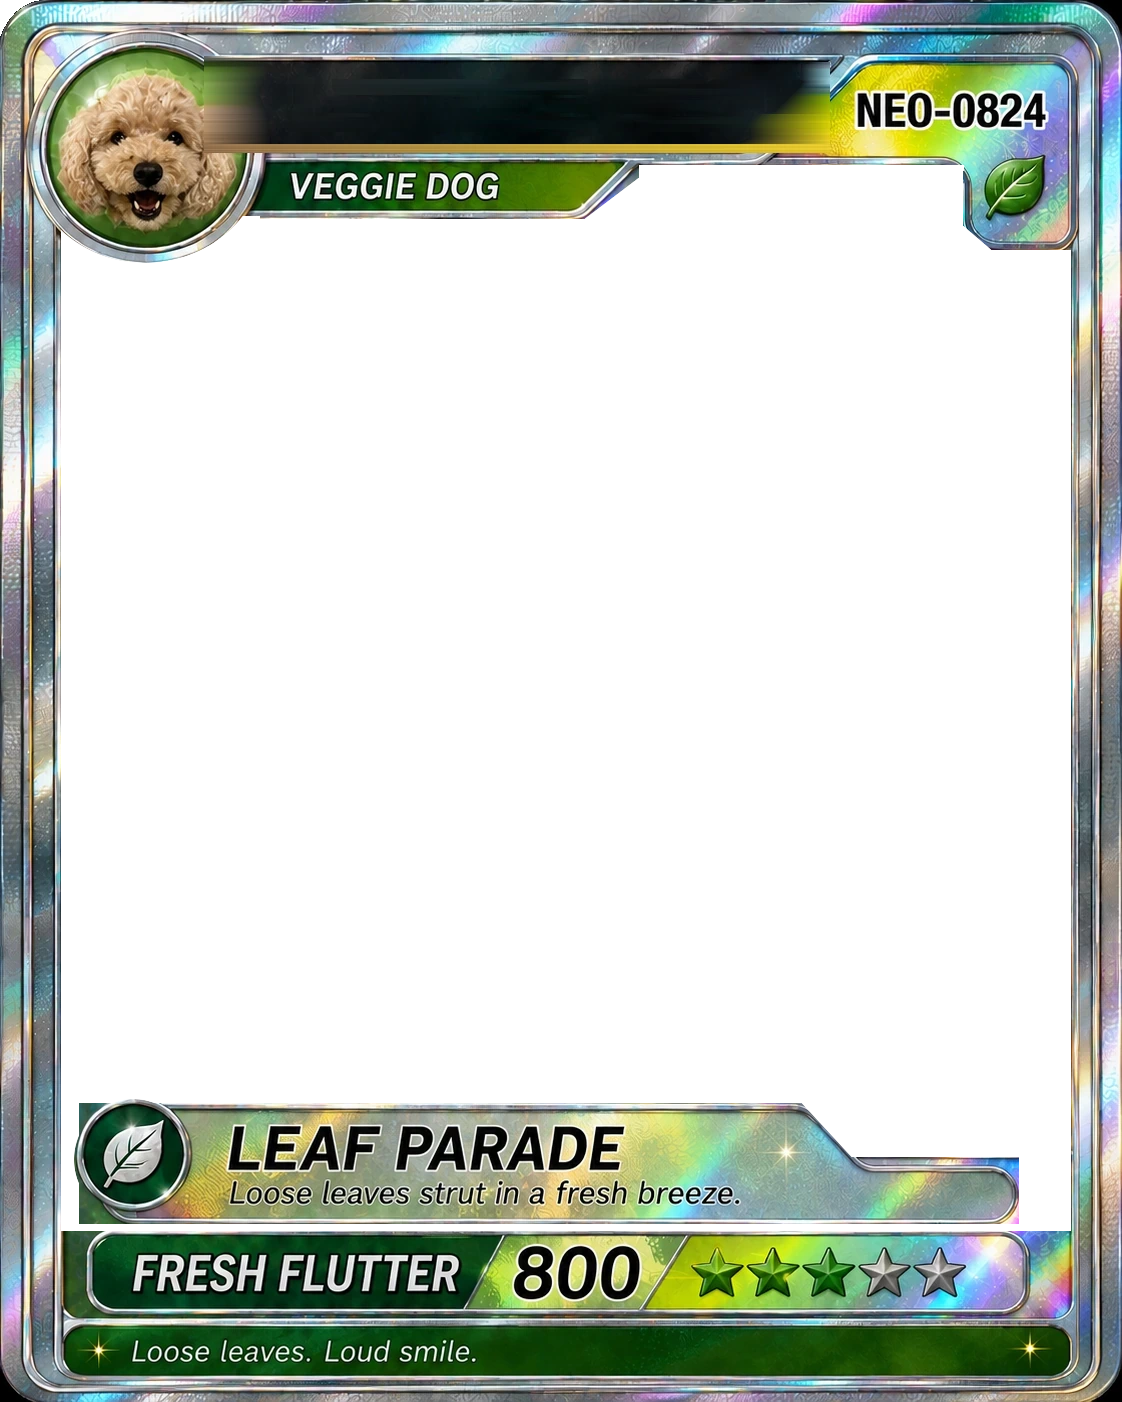
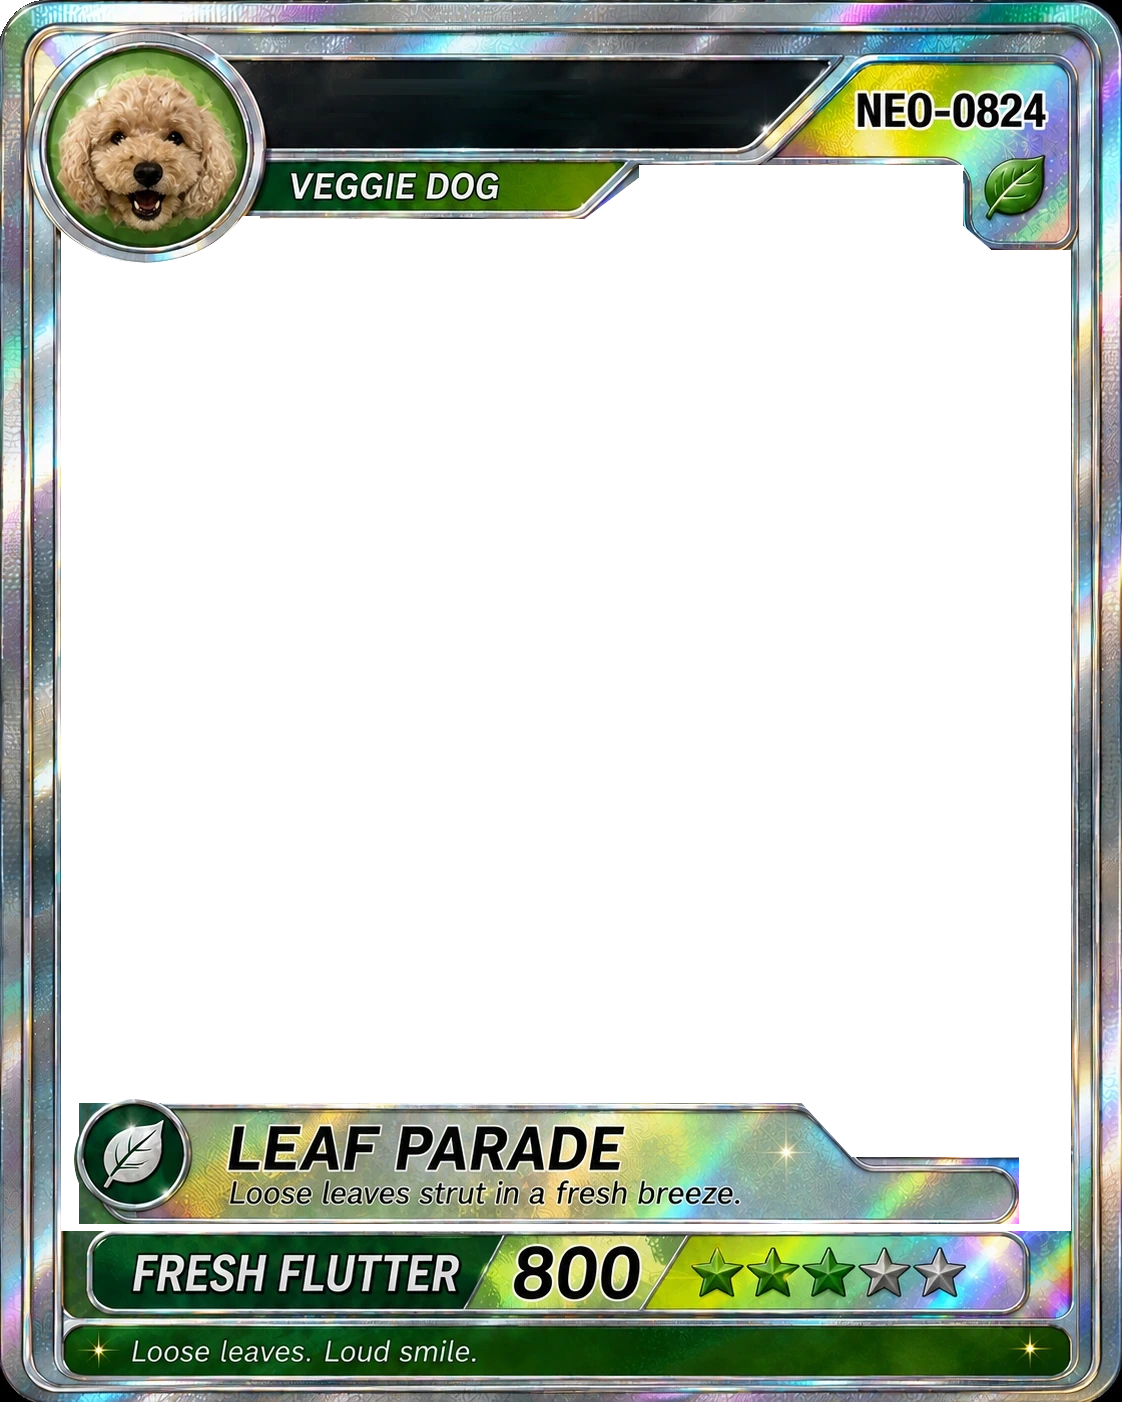
창틀을 지우면서 저쪽 강아지 원의 밝은 색을 바 오른쪽까지 끌고 가던 것
이머시브 창틀 셋을 카드와 같은 마스크 방식으로 지웠더니, 아바타 원에서 오른쪽으로
밝은 줄무늬가 생겼다. 원본에는 없던 것이다.

창틀 왼쪽에는 저쪽 강아지 얼굴이 박힌 밝은 원이 있고 어두운 바가 그 뒤까지 이어져
있다. 그래서 바의 왼쪽 끝이 **원 안에서** 잡혔고, 원의 밝은 화소가 글자로 걸려
지워졌다. 메울 때 왼쪽에서 그 밝은 색을 읽어 오른쪽으로 이으니 줄무늬가 됐다.

낱자 폭으로 걸러 봤지만 원의 일부만 밴드에 들어와서 폭 제한을 통과했다. 밴드의
**왼쪽 끝을 바 높이의 80% 이상이 어두운 첫 세로줄**로 옮긴다 — 원이 지나는 줄은
위아래가 밝아서 저절로 빠진다.

`frameName` 왼쪽 끝이 18.2% → 23.4% 로 밀렸다. 셋 다 갱신했다.

Claude-Session: https://claude.ai/code/session_01MxiMR2diKwasG4qb9ui65C

Changed region(s): [[0.1872, 0.0307, 0.7487, 0.1227]]

diff --git a/app/src/main/java/com/daengs/app/ui/dex/Immersive.kt b/app/src/main/java/com/daengs/app/ui/dex/Immersive.kt
@@ -195,7 +195,7 @@ val CABBAGE_SCENE = ImmersiveScene(
     card = "neo-hologram/art/cabbage-card.webp",
     frame = "neo-hologram/art/cabbage-card-frame.webp",
     frameChip = true,
-    frameName = Slot(18.17f, 3.95f, 71.89f, 9.62f),
+    frameName = Slot(23.43f, 3.95f, 71.89f, 9.62f),
     frameCode = Slot(73.49f, 4.51f, 94.5f, 9.05f),
     bgm = bgmFor("cabbage"),
     window = ImmersiveScene.Win(4.91f, 10.28f, 90.51f, 81.58f),
@@ -225,7 +225,7 @@ val SWEET_POTATO_SCENE = ImmersiveScene(
     card = "neo-hologram/art/sweet-potato-card.webp",
     frame = "neo-hologram/art/sweet-potato-card-frame.webp",
     frameChip = true,
-    frameName = Slot(19.03f, 4.0f, 72.26f, 10.18f),
+    frameName = Slot(23.81f, 4.0f, 72.26f, 10.18f),
     frameCode = Slot(73.86f, 4.62f, 94.5f, 9.56f),
     bgm = bgmFor("sweet-potato"),
     window = ImmersiveScene.Win(6.28f, 10.85f, 88.57f, 81.61f),
@@ -257,7 +257,7 @@ val LETTUCE_SCENE = ImmersiveScene(
     card = "neo-hologram/art/lettuce-card.webp",
     frame = "neo-hologram/art/lettuce-card-frame.webp",
     frameChip = true,
-    frameName = Slot(18.54f, 4.28f, 73.62f, 10.63f),
+    frameName = Slot(23.62f, 4.28f, 73.62f, 10.63f),
     frameCode = Slot(75.22f, 4.91f, 94.5f, 9.99f),
     bgm = bgmFor("lettuce"),
     window = ImmersiveScene.Win(5.17f, 11.55f, 90.46f, 76.39f),

diff --git a/tools/punch_card_frame.py b/tools/punch_card_frame.py
@@ -44,6 +44,9 @@ from card_text_slots import DARK, GLYPH_OVER, GLYPH_WEAK, MIN_AREA, RAIL_MAX_H
 from card_text_slots import bar_spans, erase, runs_of
 from scipy import ndimage
 
+# 낱자 하나가 이보다 넓으면 글자가 아니다 (창틀 제목은 떨어진 세리프다).
+FRAME_GLYPH_MAX_W = 120
+
 ART = pathlib.Path(__file__).resolve().parent.parent / "app/src/main/assets/neo-hologram/art"
 
 
@@ -82,7 +85,23 @@ def title_box(lum: np.ndarray) -> tuple[int, int, int, int] | None:
             best = got[0]
     if best is None:
         return None
-    return x0, best[0], x1, best[1]
+    y0, y1 = best
+
+    # **아바타 원을 밴드 밖으로 밀어낸다.**
+    #
+    # 창틀 왼쪽에는 저쪽 강아지 얼굴이 박힌 밝은 원이 있고, 어두운 바가 그 뒤까지
+    # 이어져 있어서 왼쪽 끝이 원 안에서 잡힌다. 그러면 원의 밝은 화소가 "글자" 로
+    # 걸려 지워지고, 메우면서 그 밝은 색이 바 오른쪽까지 줄무늬로 끌려간다.
+    #
+    # 바 높이의 대부분이 어두운 **첫 세로줄**부터 시작한다 — 원이 지나는 줄은
+    # 위아래가 밝아서 저절로 빠진다.
+    need = (y1 - y0) * 0.80
+    x = x0
+    while x < x1:
+        if (lum[y0:y1, x] < DARK).sum() >= need:
+            break
+        x += 1
+    return x, y0, x1, y1
 
 
 def punch(src: pathlib.Path, apply: bool) -> list[float] | None:
@@ -108,6 +127,12 @@ def punch(src: pathlib.Path, apply: bool) -> list[float] | None:
         if i not in hot:
             continue
         if sl[0].stop - sl[0].start < max(RAIL_MAX_H, (y1 - y0) * 0.18):
+            continue
+        # **폭이 넓은 덩이는 글자가 아니다.** 창틀은 왼쪽에 저쪽 강아지 얼굴이 박힌
+        # 밝은 원이 있는데, 그 테두리가 후광을 타고 제목 글자와 한 덩이가 됐다.
+        # 그대로 메우면 원의 밝은 색이 바 오른쪽까지 줄무늬로 끌려간다 — 실제로
+        # 그렇게 됐다. 카드와 달리 창틀 글자는 낱자가 떨어진 세리프라 폭으로 갈린다.
+        if sl[1].stop - sl[1].start > FRAME_GLYPH_MAX_W:
             continue
         if (lab[sl] == i).sum() < MIN_AREA:
             continue
